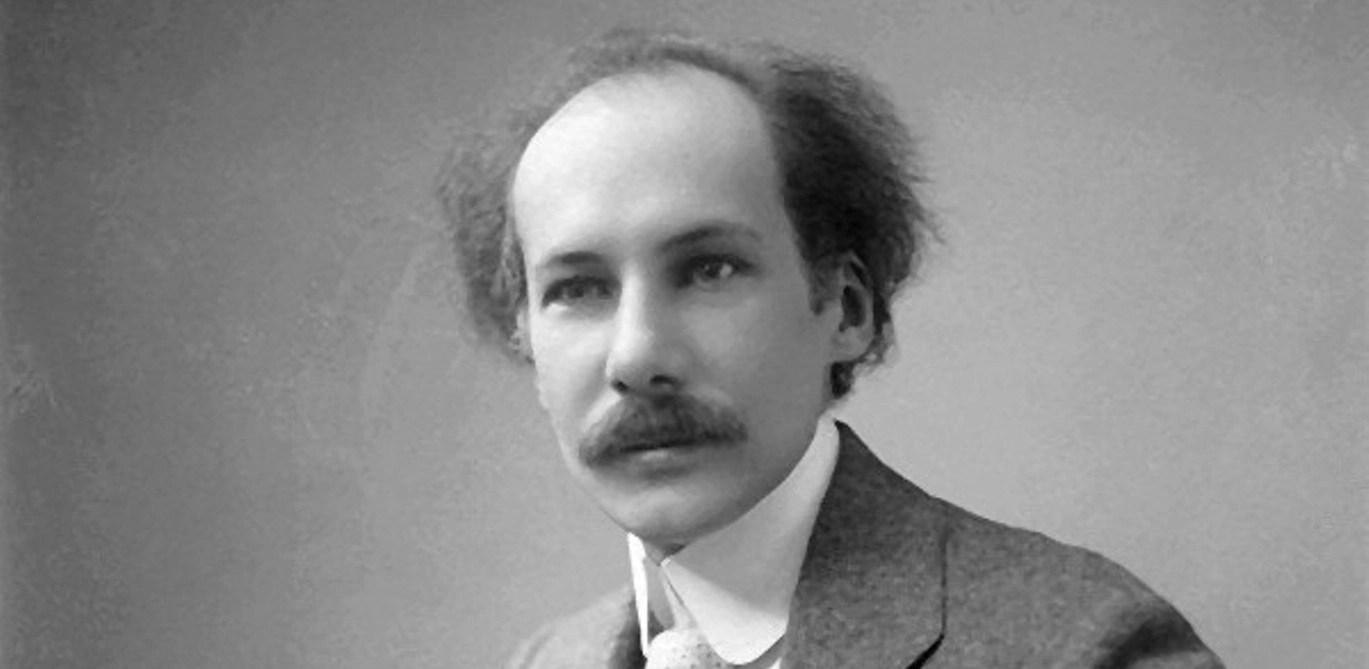
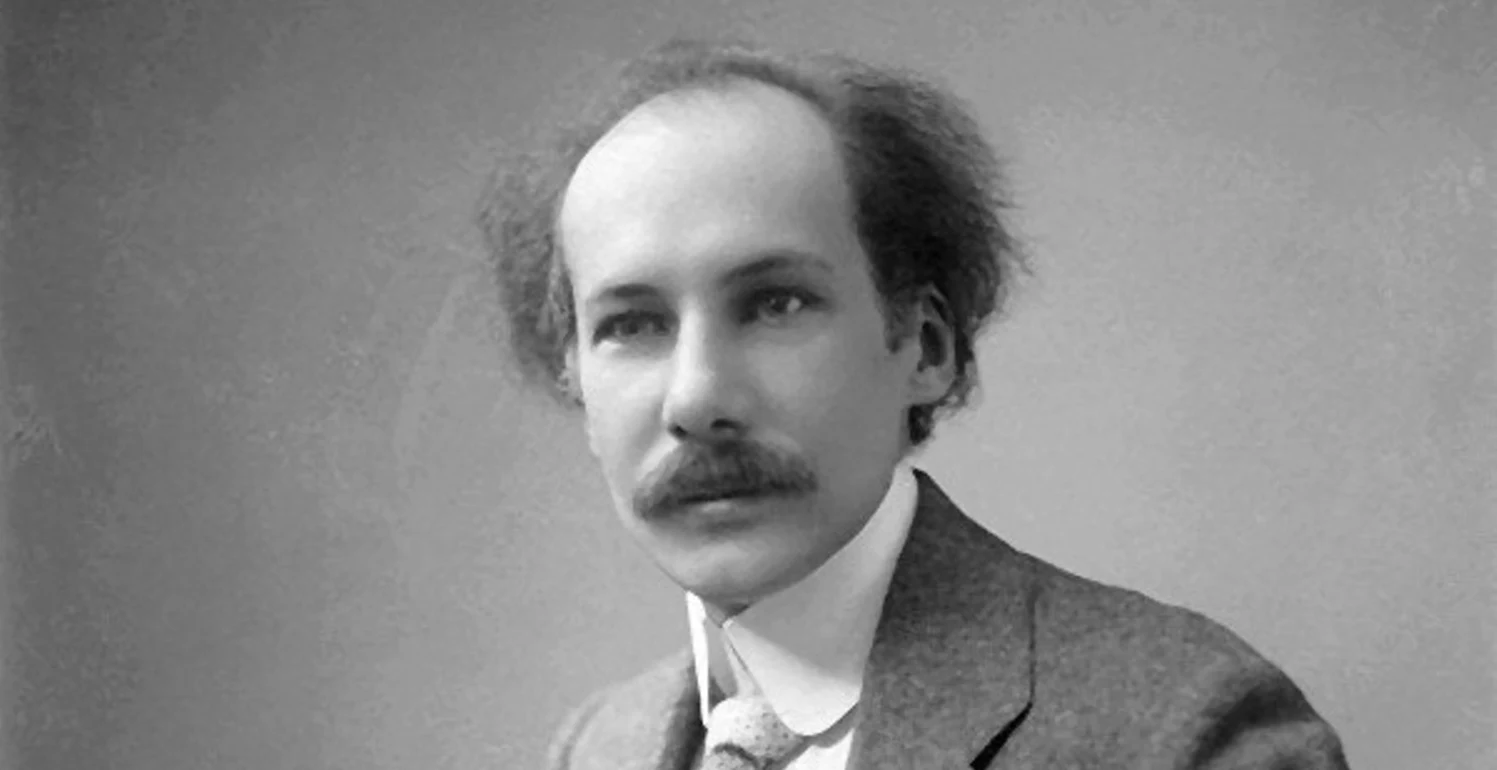
home img belyi

diff --git a/templates/index.html b/templates/index.html
@@ -2,5 +2,7 @@
 {% load static %}
 
 {% block content %}
-    <img class="align-items-center" src="{% static 'belyi_home.webp' %}" width="99%"/>
+    <div class="text-center">
+        <img class="img-fluid" src="{% static 'belyi_home.webp' %}" />
+    </div>
 {% endblock %}
